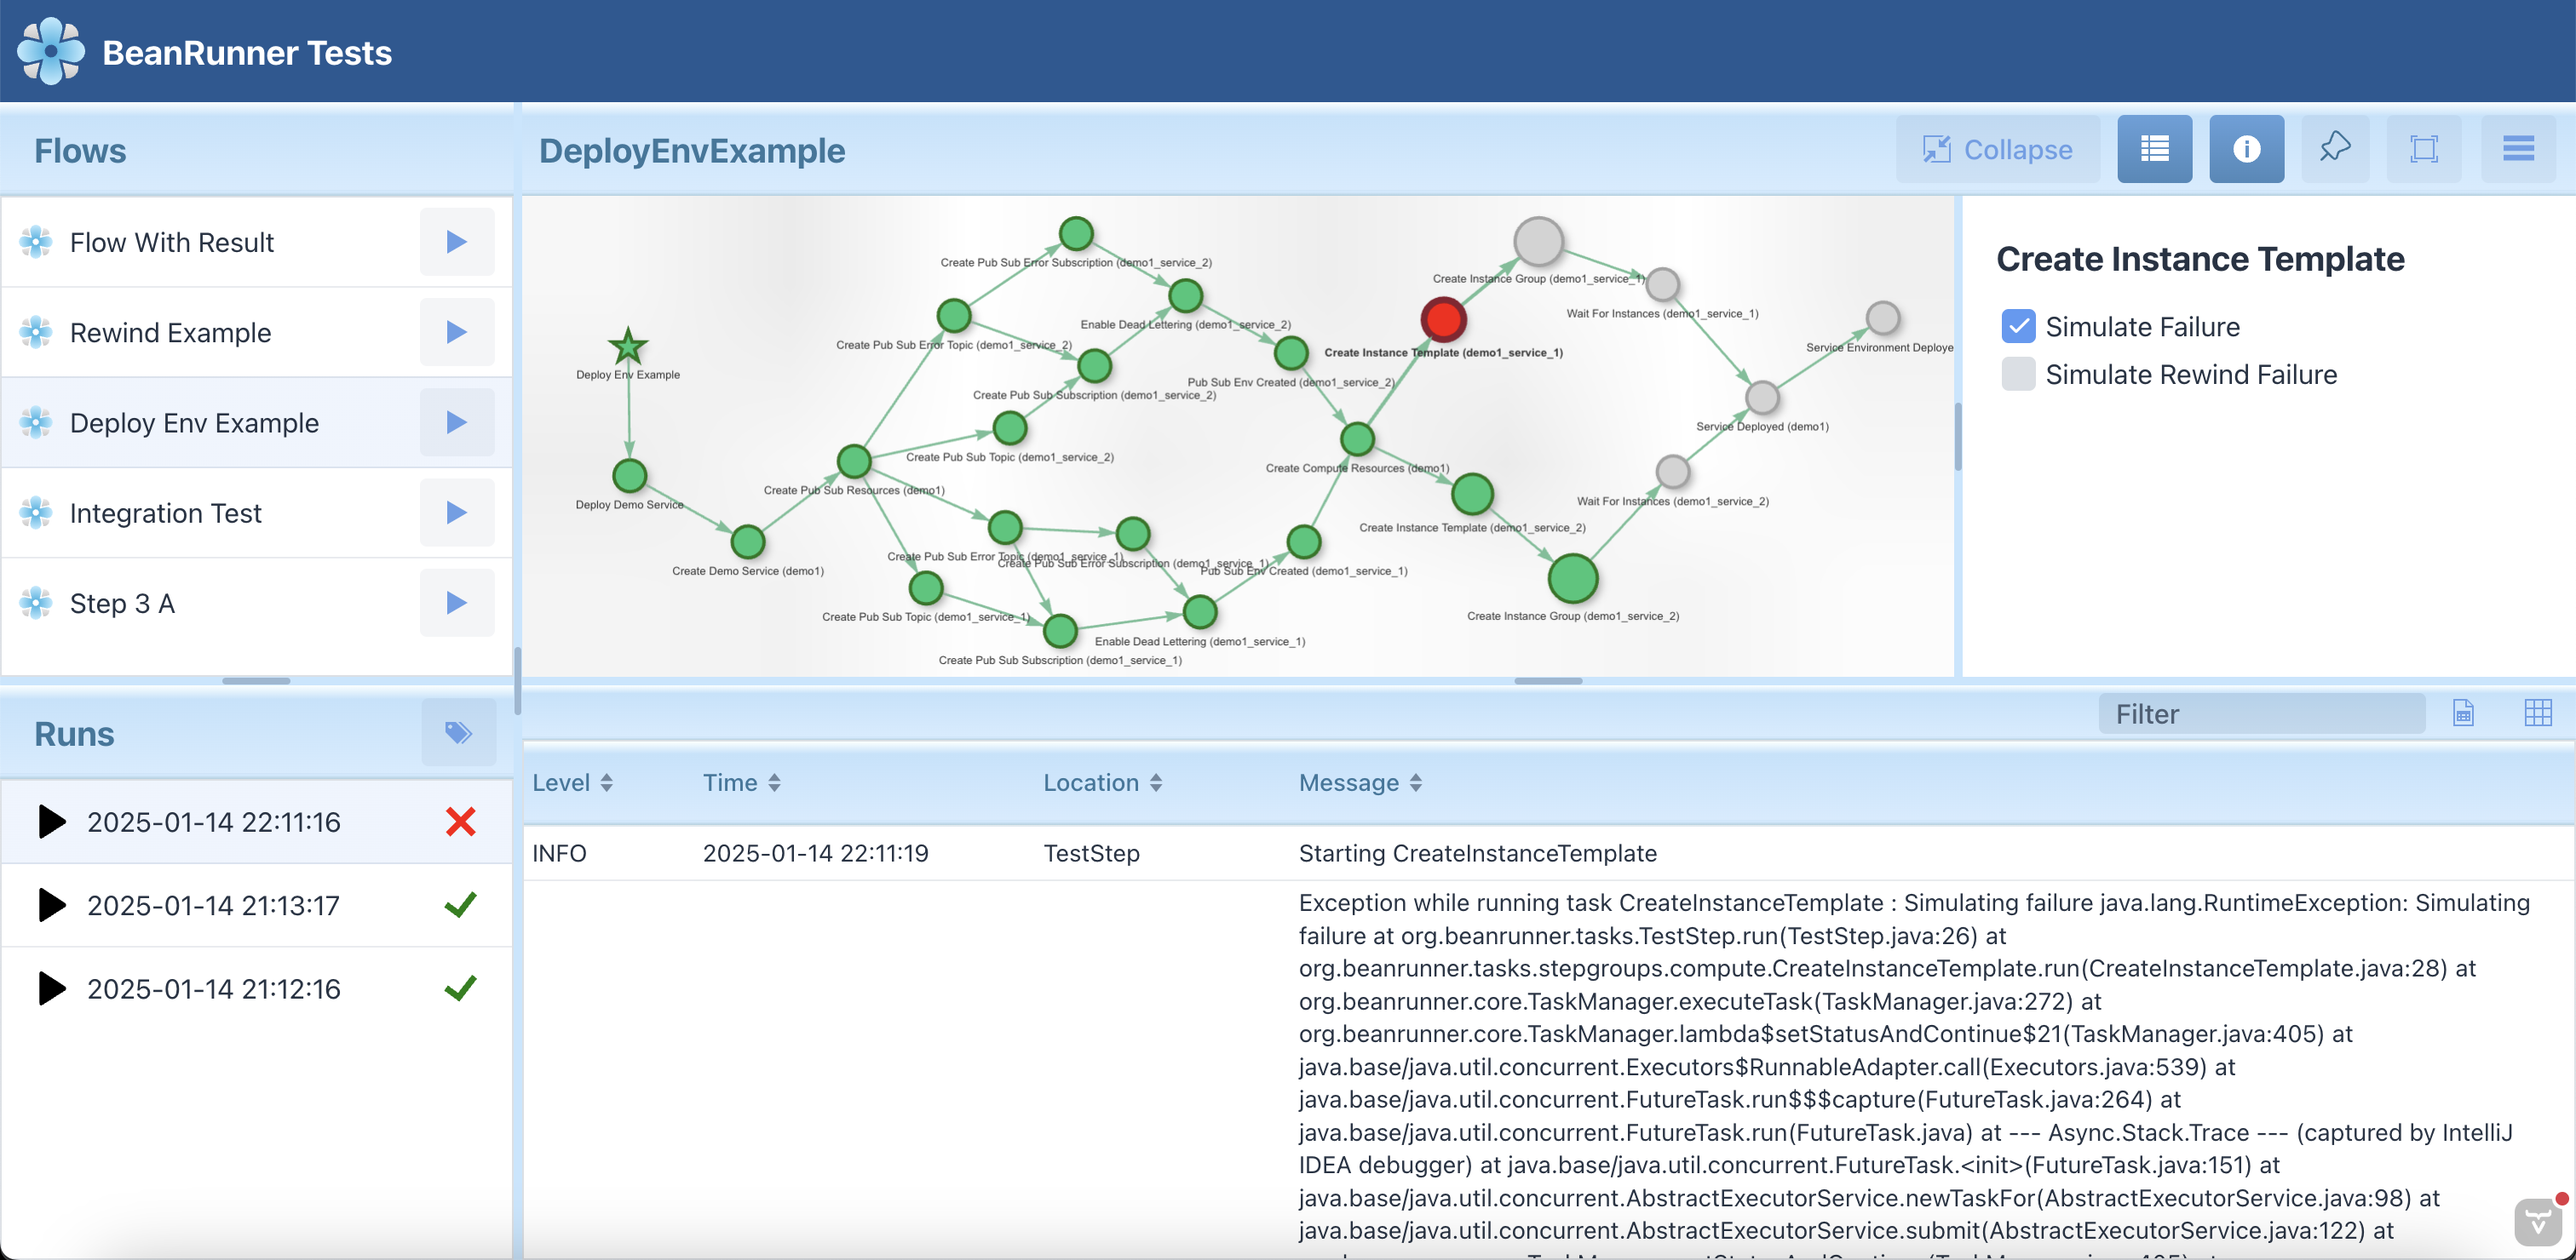
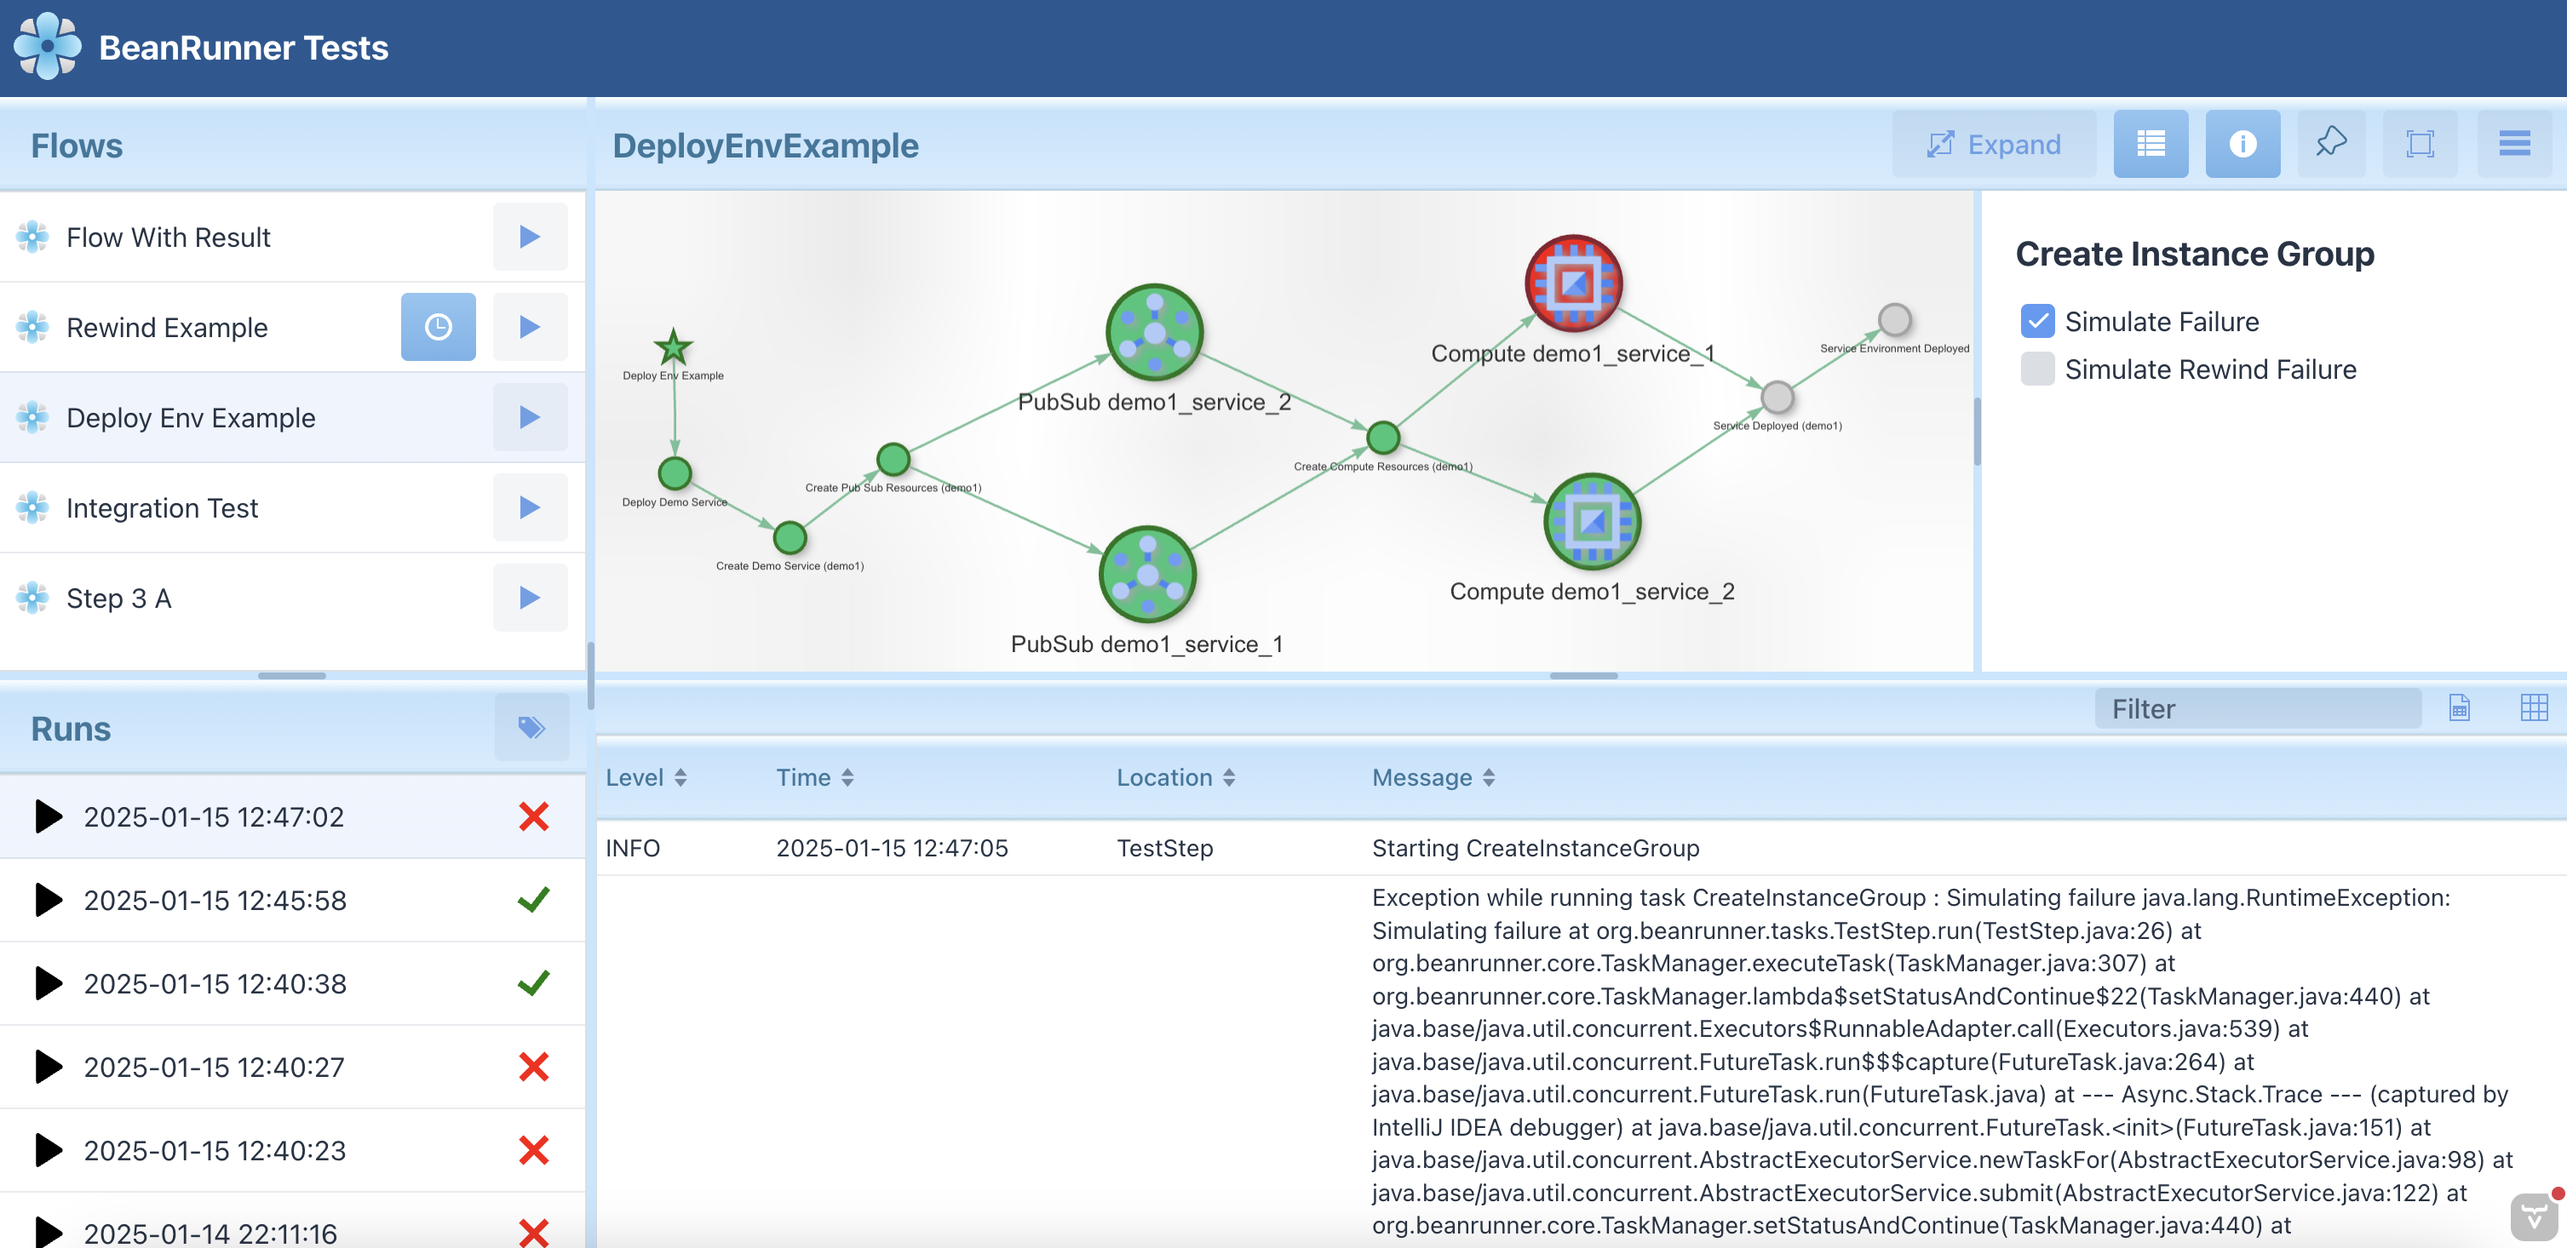
added option to disable & enable CRON schedules

diff --git a/bean-runner-spring-boot-starter/src/main/resources/META-INF/resources/frontend/themes/my-theme/styles.css b/bean-runner-spring-boot-starter/src/main/resources/META-INF/resources/frontend/themes/my-theme/styles.css
@@ -114,7 +114,7 @@ vaadin-split-layout::part(splitter) {
 }
 
 .toggled {
-    background: linear-gradient(#62a1dc, #4b89ba);
+    background: linear-gradient(#90c6f3, #73b4ea);
     color: white;
 }
 

diff --git a/bean-runner-spring-boot-starter/src/main/java/org/beanrunner/core/TaskManager.java b/bean-runner-spring-boot-starter/src/main/java/org/beanrunner/core/TaskManager.java
@@ -20,6 +20,8 @@
 
 package org.beanrunner.core;
 
+import com.fasterxml.jackson.core.JsonProcessingException;
+import com.fasterxml.jackson.core.type.TypeReference;
 import com.fasterxml.jackson.databind.ObjectMapper;
 import lombok.Getter;
 import lombok.extern.slf4j.Slf4j;
@@ -27,6 +29,7 @@ import org.apache.commons.lang3.StringUtils;
 import org.beanrunner.core.annotations.StepGroup;
 import org.beanrunner.core.annotations.*;
 import org.beanrunner.core.logging.CustomSpringLogbackAppender;
+import org.beanrunner.core.storage.StorageService;
 import org.beanrunner.core.storage.runs.StepRunStorage;
 import org.slf4j.MDC;
 import org.springframework.beans.factory.annotation.Autowired;
@@ -60,6 +63,9 @@ public class TaskManager {
     private final Map<Step<?>, Long> identifierStartLoadTime = new ConcurrentHashMap<>();
     private final Map<TaskRunIdentifier, Long> identifierPropagationLoadingTime = new ConcurrentHashMap<>();
     private final CustomSpringLogbackAppender appender;
+    private final StorageService storageService;
+
+    private Set<String> disabledCronSteps = new HashSet<>();
 
     private final ObjectMapper objectMapper = new ObjectMapper();
 
@@ -68,21 +74,33 @@ public class TaskManager {
                        @Autowired List<Step<?>> tasks,
                        @Autowired QualifierInspector qualifierInspector,
                        @Autowired StepRunStorage stepRunStorage,
-                       @Autowired CustomSpringLogbackAppender appender) {
+                       @Autowired CustomSpringLogbackAppender appender,
+                       @Autowired StorageService storageService) {
         this.tasks = tasks;
         this.scheduler = scheduler;
         this.qualifierInspector = qualifierInspector;
         this.stepRunStorage = stepRunStorage;
         this.appender = appender;
+        this.storageService = storageService;
         injectPostAutowiredDependencies();
 
         buildTaskDependencyTree();
+
+        storageService.read("disabledCronSteps.json").ifPresent(json -> {
+            try {
+                disabledCronSteps = objectMapper.readValue(json, new TypeReference<>() {});
+            } catch (JsonProcessingException e) {
+                log.error("Failed to read disabled cron steps", e);
+            }
+        });
 
         scheduler.ifPresent(taskScheduler -> rootTasks.forEach(rootTask -> {
             if (rootTask.getClass().isAnnotationPresent(StepSchedule.class)) {
                 StepSchedule runAt = rootTask.getClass().getAnnotation(StepSchedule.class);
                 taskScheduler.schedule(() -> {
-                    execute(rootTask, null, true, "Cron", "images/source-cron.svg");
+                    if (! disabledCronSteps.contains(qualifierInspector.getQualifierForBean(rootTask))) {
+                        execute(rootTask, null, true, "Cron", "images/source-cron.svg");
+                    }
                 }, new CronTrigger(runAt.value()));
             }
         }));
@@ -145,6 +163,23 @@ public class TaskManager {
                 }
             }
         }
+    }
+
+    public void setCronEnabled(Step<?> step, boolean enabled) {
+        if (enabled) {
+            disabledCronSteps.remove(qualifierInspector.getQualifierForBean(step));
+        } else {
+            disabledCronSteps.add(qualifierInspector.getQualifierForBean(step));
+        }
+        try {
+            storageService.store("disabledCronSteps.json", objectMapper.writeValueAsString(disabledCronSteps));
+        } catch (JsonProcessingException e) {
+            throw new RuntimeException(e);
+        }
+    }
+
+    public boolean isCronEnabled(Step<?> step) {
+        return !disabledCronSteps.contains(qualifierInspector.getQualifierForBean(step));
     }
 
     public void loadIdentifiersFor(Step<?> rootStep) {

diff --git a/bean-runner-spring-boot-starter/src/main/java/org/beanrunner/core/views/MainView.java b/bean-runner-spring-boot-starter/src/main/java/org/beanrunner/core/views/MainView.java
@@ -323,6 +323,21 @@ public class MainView extends VerticalLayout implements TaskListener, HasDynamic
                     break;
                 }
             }
+
+            if (t.getClass().isAnnotationPresent(StepSchedule.class)) {
+                ToggleButton btnCronEnabled = new ToggleButton("", VaadinIcon.CLOCK.create());
+                if (taskManager.isCronEnabled(t)) {
+                    btnCronEnabled.setToggled(true);
+                } else {
+                    btnCronEnabled.setToggled(false);
+                }
+                btnCronEnabled.addClickListener(e -> {
+                    taskManager.setCronEnabled(t, btnCronEnabled.isToggled());
+                });
+
+                layout.add(btnCronEnabled);
+            }
+
             layout.add(new Button(VaadinIcon.PLAY.create(), e -> {
                 executeTask(t);
             }));
@@ -879,7 +894,7 @@ public class MainView extends VerticalLayout implements TaskListener, HasDynamic
 
         splitLayout.addToSecondary(splitRight);
         splitLayout.setOrientation(SplitLayout.Orientation.HORIZONTAL);
-        splitLayout.setSplitterPosition(20);
+        splitLayout.setSplitterPosition(23);
         splitInner.setSplitterPosition(20);
         add(splitLayout);
         pnlConfiguration.setVisible(false);

diff --git a/bean-runner-spring-boot-starter/src/test/java/org/beanrunner/tasks/rewind/R1.java b/bean-runner-spring-boot-starter/src/test/java/org/beanrunner/tasks/rewind/R1.java
@@ -5,6 +5,7 @@ import lombok.extern.slf4j.Slf4j;
 import org.beanrunner.core.Step;
 import org.beanrunner.core.annotations.StepDescription;
 import org.beanrunner.core.annotations.StepName;
+import org.beanrunner.core.annotations.StepSchedule;
 import org.beanrunner.core.annotations.UIConfigurable;
 import org.springframework.stereotype.Component;
 
@@ -17,7 +18,7 @@ import org.springframework.stereotype.Component;
         The task graph will rewind on failures or successful completion, triggering
         resource cleanup if necessary.
         """)
-//@StepSchedule("0 * * * * *")
+@StepSchedule("0 * * * * *")
 public class R1 extends Step<Void> {
 
     @JsonProperty

diff --git a/bean-runner-spring-boot-starter/src/main/java/org/beanrunner/core/views/ToggleButton.java b/bean-runner-spring-boot-starter/src/main/java/org/beanrunner/core/views/ToggleButton.java
@@ -28,7 +28,7 @@ public class ToggleButton extends Button {
 
     private boolean toggled = false;
 
-    public ToggleButton(String text, Image icon) {
+    public ToggleButton(String text, Image icon, String classPrefix) {
         super(text, icon);
         addClickListener(e -> {
             toggled = !toggled;
